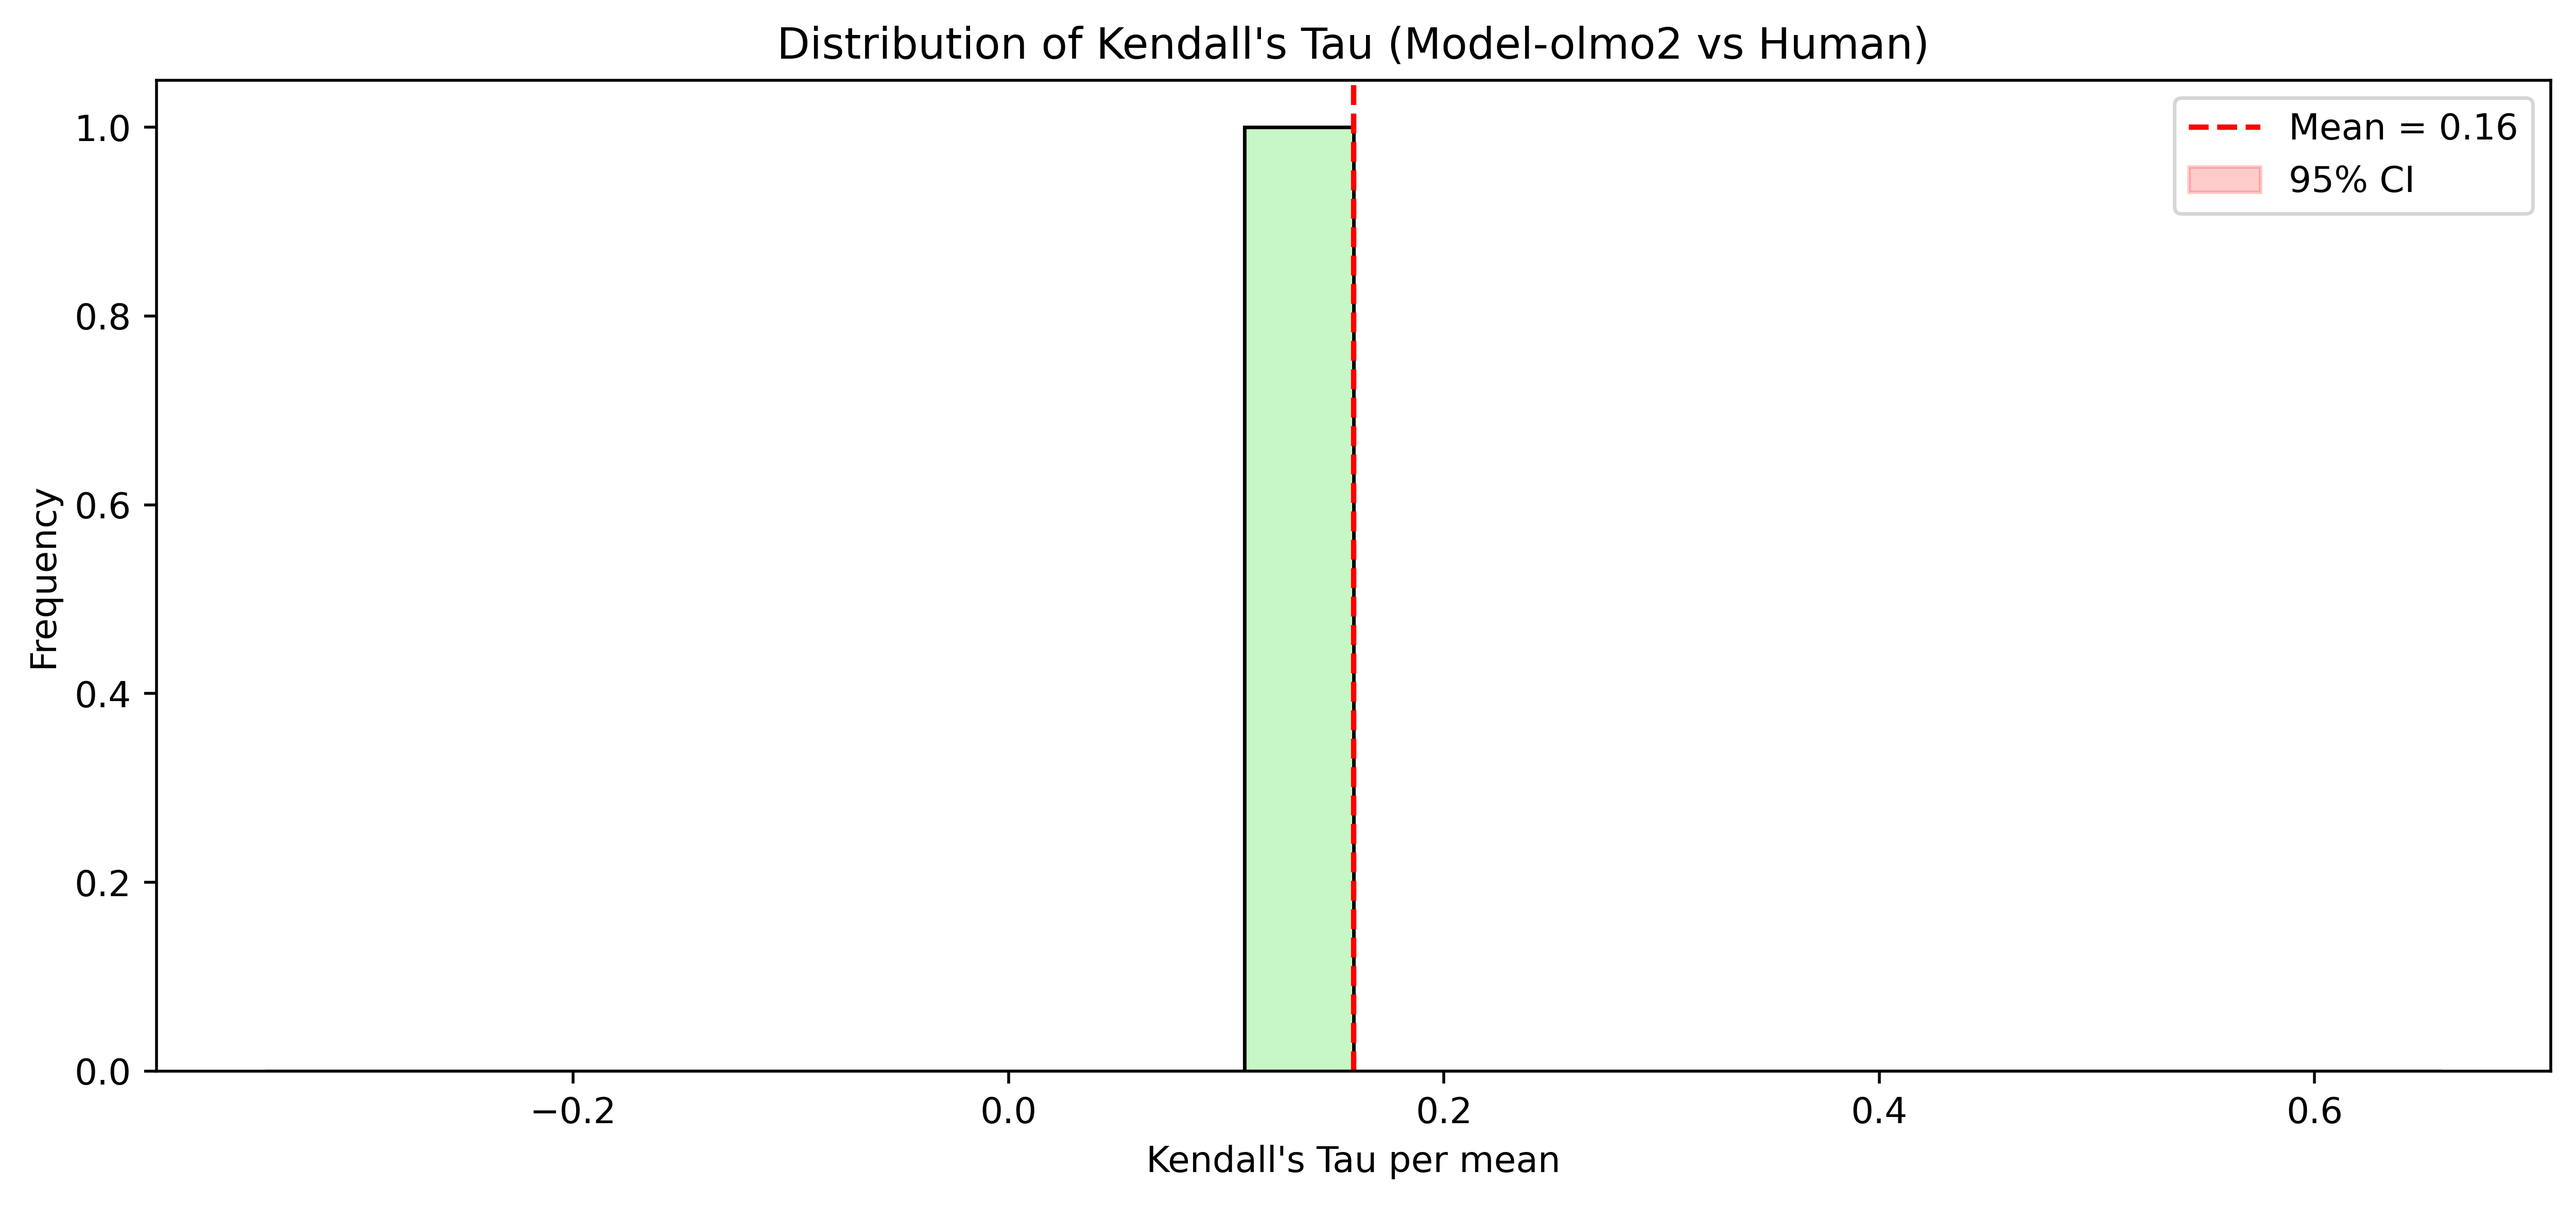
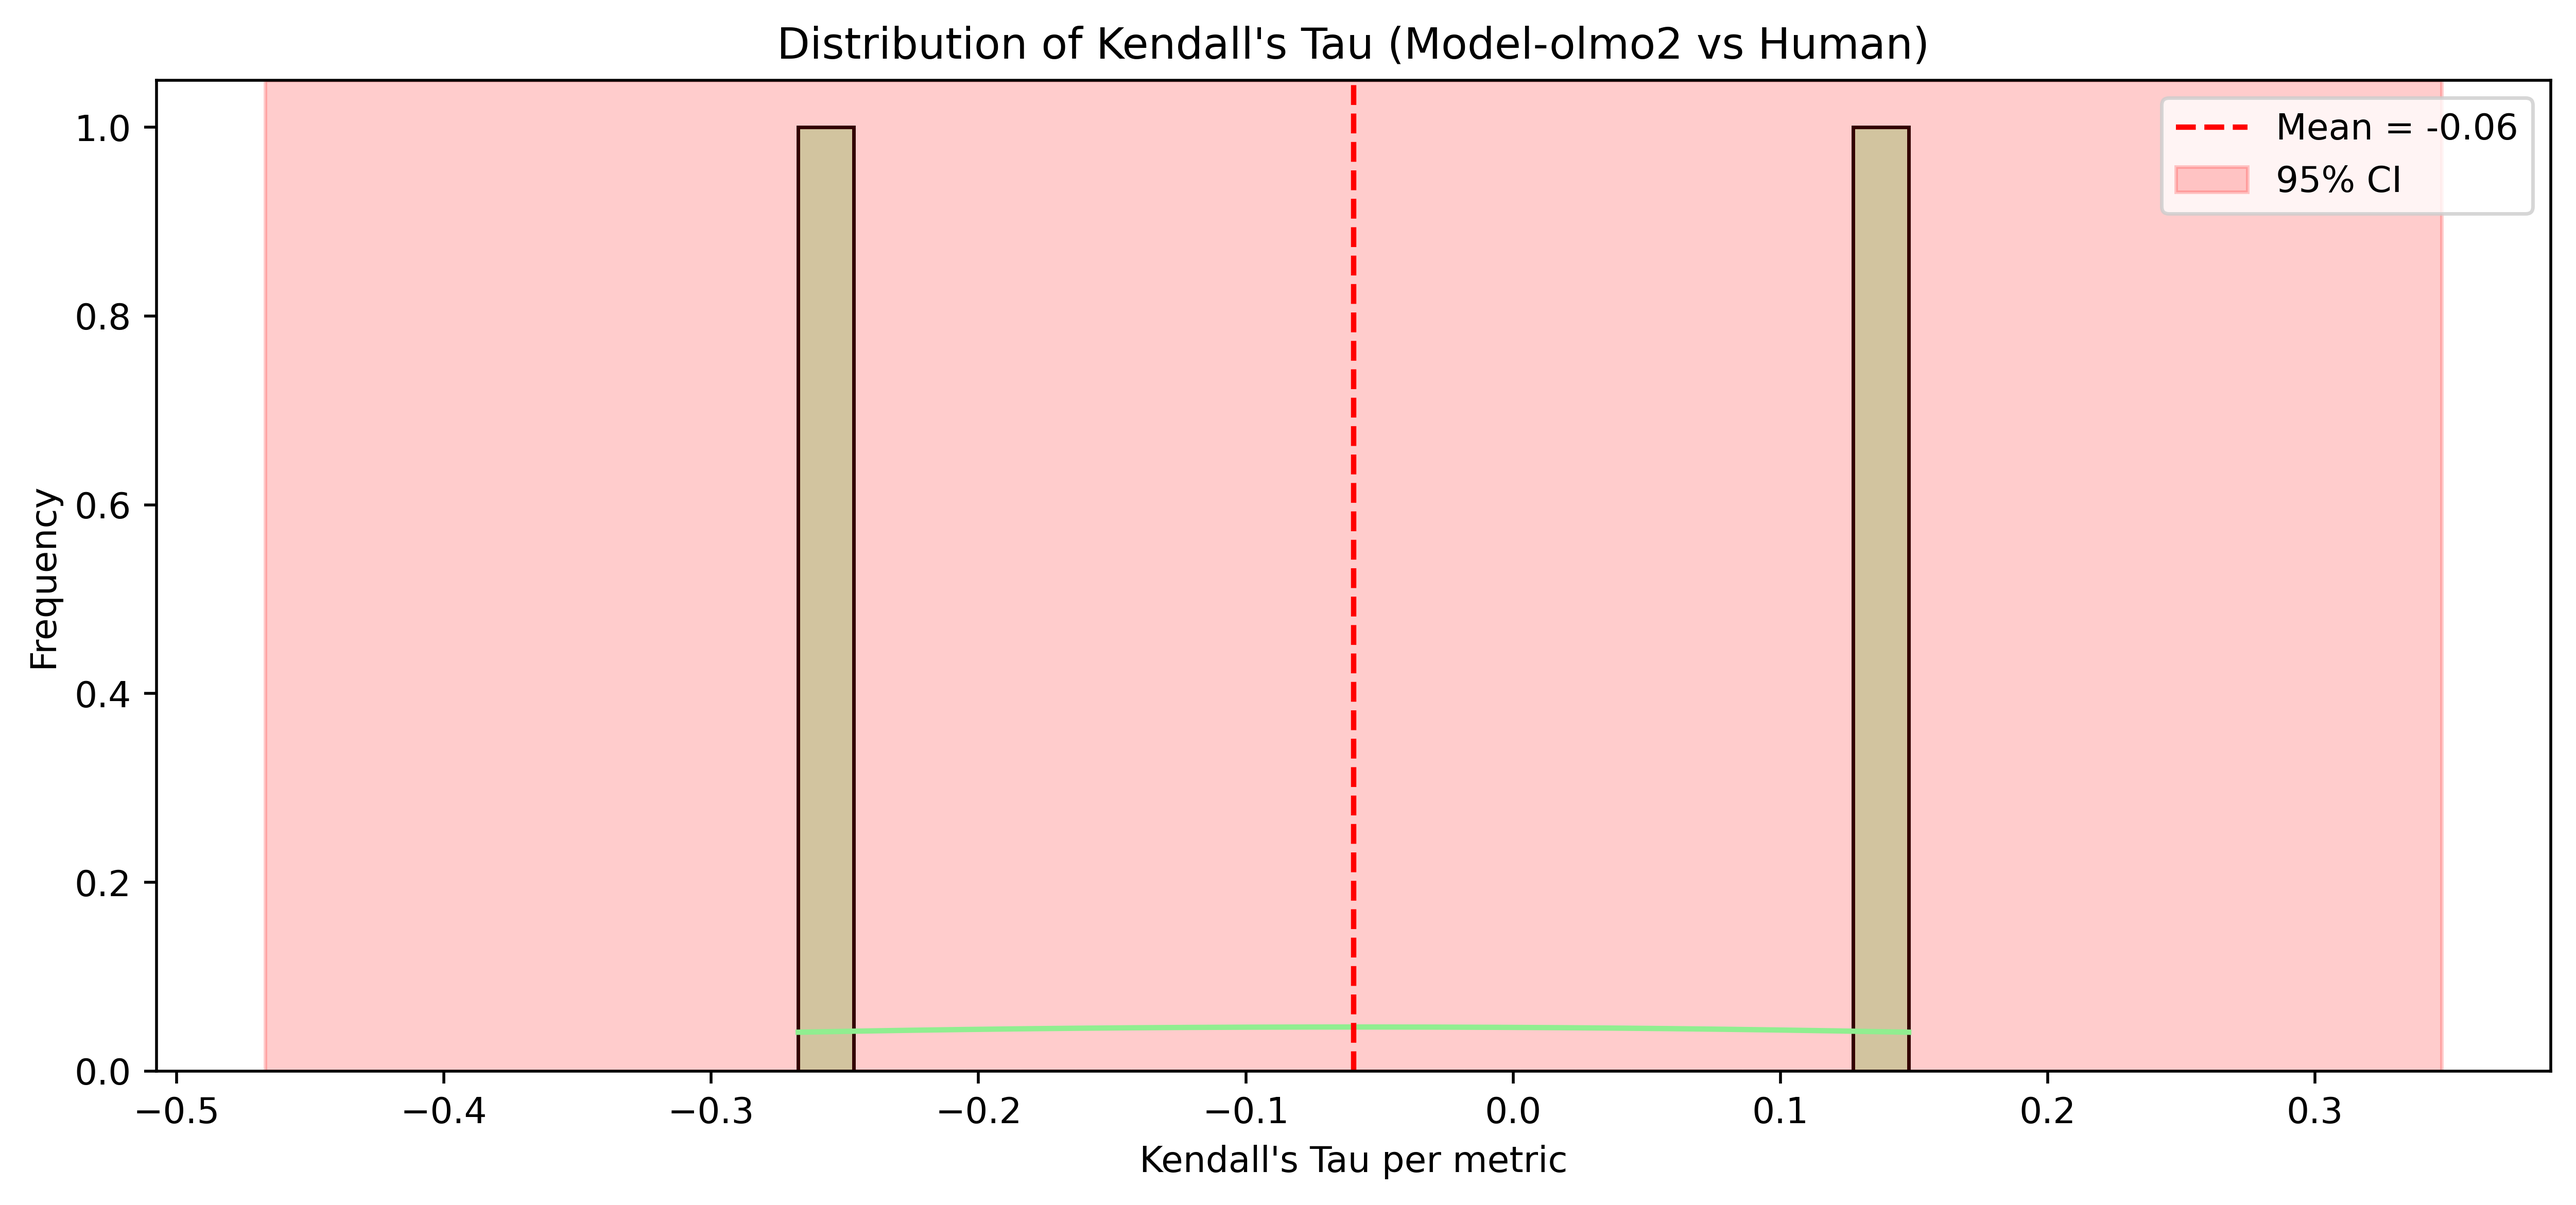
add correlation of metrics

diff --git a/case_study/human_alignment_and_significant_test.py b/case_study/human_alignment_and_significant_test.py
@@ -139,7 +139,7 @@ def caculate_alignment(tau_values, model_name=None, tau_axis=None):
     # plt.show()
     plt.savefig(f'figure/{title2}.png', dpi=500, bbox_inches='tight')
 
-def plot_all_comparison_by_filenames(human_annotation_csv, model_evaluation_csv, filenames=None):
+def plot_all_correlation_comparison_over_models(human_annotation_csv, model_evaluation_csv, filenames=None):
     # Load data
     human_df = pd.read_csv(human_annotation_csv).drop(columns=['comment'], errors='ignore').fillna(0)
     model_df = pd.read_csv(model_evaluation_csv).fillna(0)
@@ -206,6 +206,150 @@ def plot_all_comparison_by_filenames(human_annotation_csv, model_evaluation_csv,
     plt.savefig(save_path, dpi=500, bbox_inches='tight')
     # plt.show()
 
+
+def plot_metric_correlations_all(human_annotation_csv, model_evaluation_csv):
+    # Load data
+    human_df = pd.read_csv(human_annotation_csv).drop(columns=['comment'], errors='ignore').fillna(0)
+    model_df = pd.read_csv(model_evaluation_csv).fillna(0)
+
+    # Align data: keep only common filenames
+    common_filenames = sorted(set(human_df['filename']).intersection(set(model_df['filename'])))
+    human_df = human_df[human_df['filename'].isin(common_filenames)]
+    model_df = model_df[model_df['filename'].isin(common_filenames)]
+
+    # Drop non-metric columns
+    human_metrics = human_df.drop(columns=['filename', 'conversation_id', 'title'], errors='ignore')
+    model_metrics = model_df.drop(columns=['filename', 'conversation_id', 'title'], errors='ignore')
+
+    # Compute correlations
+    records = []
+    for metric in human_metrics.columns:
+        try:
+            pearson_corr, _ = pearsonr(human_metrics[metric], model_metrics[metric])
+        except Exception:
+            pearson_corr = 0
+        try:
+            spearman_corr, _ = spearmanr(human_metrics[metric], model_metrics[metric])
+        except Exception:
+            spearman_corr = 0
+        try:
+            kendall_corr, _ = kendalltau(human_metrics[metric], model_metrics[metric])
+        except Exception:
+            kendall_corr = 0
+
+        records.append({'Metric': metric, 'Correlation': pearson_corr, 'Type': 'Pearson'})
+        records.append({'Metric': metric, 'Correlation': spearman_corr, 'Type': 'Spearman'})
+        records.append({'Metric': metric, 'Correlation': kendall_corr, 'Type': 'Kendall Tau'})
+
+    corr_df = pd.DataFrame(records)
+
+    # Plot
+    plt.figure(figsize=(8, len(human_metrics.columns) * 0.5))
+    sns.barplot(data=corr_df, x='Correlation', y='Metric', hue='Type', palette='Set2')
+    plt.xlim(-1, 1)
+    plt.title('Model-Human Correlations per Metric')
+    plt.legend(loc='lower right', frameon=True)
+    plt.tight_layout()
+
+    # Save
+    save_path = human_annotation_csv.replace('csv', 'correlation_alltypes_avg.png').replace('data/human_annotation', 'figure')
+    plt.savefig(save_path, dpi=500, bbox_inches='tight')
+    # plt.show()
+
+
+import pandas as pd
+import matplotlib.pyplot as plt
+import seaborn as sns
+from scipy.stats import pearsonr, spearmanr, kendalltau
+
+def plot_metric_correlations_all_with_significance(human_annotation_csv, model_evaluation_csv):
+    hatches = ['xxxxxx', '/////', '']  # For Pearson, Spearman, Kendalltau
+    # Load data
+    human_df = pd.read_csv(human_annotation_csv).drop(columns=['comment'], errors='ignore').fillna(0)
+    model_df = pd.read_csv(model_evaluation_csv).fillna(0)
+
+    # Align data
+    common_filenames = sorted(set(human_df['filename']).intersection(set(model_df['filename'])))
+    human_df = human_df[human_df['filename'].isin(common_filenames)]
+    model_df = model_df[model_df['filename'].isin(common_filenames)]
+
+    # Drop non-metric columns
+    human_metrics = human_df.drop(columns=['filename', 'conversation_id', 'title'], errors='ignore')
+    model_metrics = model_df.drop(columns=['filename', 'conversation_id', 'title'], errors='ignore')
+
+    # Compute correlations with p-values
+    records = []
+    for metric in human_metrics.columns:
+        # Pearson
+        try:
+            pearson_corr, pearson_p = pearsonr(human_metrics[metric], model_metrics[metric])
+        except Exception:
+            pearson_corr, pearson_p = 0, 1.0
+        
+        # Spearman
+        try:
+            spearman_corr, spearman_p = spearmanr(human_metrics[metric], model_metrics[metric])
+        except Exception:
+            spearman_corr, spearman_p = 0, 1.0
+        
+        # Kendall Tau
+        try:
+            kendall_corr, kendall_p = kendalltau(human_metrics[metric], model_metrics[metric])
+        except Exception:
+            kendall_corr, kendall_p = 0, 1.0
+        
+        # Record values & significance markers
+        records.append({'Metric': metric, 'Correlation': pearson_corr, 'p': pearson_p, 'Type': 'Pearson'})
+        records.append({'Metric': metric, 'Correlation': spearman_corr, 'p': spearman_p, 'Type': 'Spearman'})
+        records.append({'Metric': metric, 'Correlation': kendall_corr, 'p': kendall_p, 'Type': 'Kendall'})
+
+    corr_df = pd.DataFrame(records)
+
+    # Add significance markers
+    def significance_marker(p):
+        if p < 0.01:
+            return '**'
+        elif p < 0.05:
+            return '*'
+        else:
+            return ''
+
+    corr_df['Significance'] = corr_df['p'].apply(significance_marker)
+
+    # Plot
+    # plt.figure(figsize=(4, len(human_metrics.columns) * 0.3))
+    
+    plt.figure(figsize=(4, 1.8))
+    bars = sns.barplot(data=corr_df, x='Correlation', y='Metric', hue='Type', palette='pastel')
+
+    # Annotate p-value significance on bars
+    for i, row in corr_df.iterrows():
+        plt.text(row['Correlation'] + 0.05 * (1 if row['Correlation'] >= 0 else -1) -0.025,  # offset a bit from the bar
+                 i // 3 + (0.25 * (['Pearson', 'Spearman', 'Kendall'].index(row['Type']) - 1)+0.15),  # adjust y pos
+                 row['Significance'], 
+                 color='black', fontsize=8, ha='center', va='center')
+
+    # Apply hatch patterns to each correlation type
+    for i, bar_container in enumerate(bars.containers):
+        for patch in bar_container.patches:
+            patch.set_hatch(hatches[i])
+
+    plt.xticks(fontsize=6)
+    plt.yticks(fontsize=6)
+    plt.xlim(-0.45, 0.45)
+    plt.axvline(0, color='black', linewidth=0.8, linestyle='--')
+    # plt.title('Model-Human Correlations per Metric (with significance)')
+    plt.ylabel('')
+    plt.xlabel('')
+    plt.legend(loc='upper left', bbox_to_anchor=(0, 1), fontsize=5)
+    plt.tight_layout()
+
+    # Save figure
+    save_path = human_annotation_csv.replace('csv', 'correlation_alltypes_sig.png').replace('data/human_annotation', 'figure')
+    plt.savefig(save_path, dpi=500, bbox_inches='tight')
+    # plt.show()
+
+
 def human_alignment(human_annotation_csv, model_evaluation_csv, tau_axis):
     if tau_axis == 'mean':
         for f in json_files:
@@ -228,9 +372,9 @@ def analysis_human_annotator(human_annotation_csv, model_evaluation_csv):
     # 2. Calculate alignment over metric and visulize it
     # human_alignment(human_annotation_csv, model_evaluation_csv, tau_axis='metric')
     # 3. Calculate alignment over mean metric
-    human_alignment(human_annotation_csv, model_evaluation_csv, tau_axis='mean')
+    # human_alignment(human_annotation_csv, model_evaluation_csv, tau_axis='mean')
     # 3. Plot overall comparsion between models and human
-    plot_all_comparison_by_filenames(human_annotation_csv, model_evaluation_csv, filenames=json_files)    
+    plot_all_correlation_comparison_over_models(human_annotation_csv, model_evaluation_csv, filenames=json_files)    
 
 def compare_kappa_annotations_by_index(file1, file2, annotation_columns, output_file):
     """
@@ -350,4 +494,5 @@ if __name__ == "__main__":
     # compare_kappa_annotations_by_index(file1=human_annotation_csv_1, file2=human_annotation_csv_2, annotation_columns=metrics, output_file=human_annotation_csv_merged)
     
     # Step 2: Human alignment analysis
-    analysis_human_annotator(human_annotation_csv=human_annotation_csv_merged, model_evaluation_csv=model_evaluation_csv)
+    # analysis_human_annotator(human_annotation_csv=human_annotation_csv_merged, model_evaluation_csv=model_evaluation_csv)
+    plot_metric_correlations_all_with_significance(human_annotation_csv=human_annotation_csv_merged, model_evaluation_csv=model_evaluation_csv)
